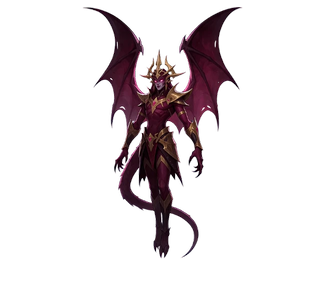
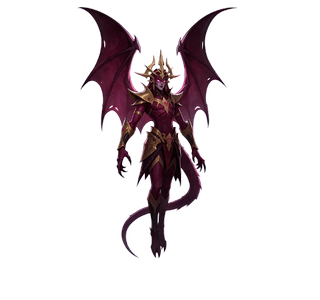
Azazel: voo espelhado (olhava para trás) e orbe de alma novo
- walk_0..5 espelhados: o rosto agora olha para onde ele anda
- Orbe (habilidade e golpe básico): surge 1-2-3, persegue no quadro 2 (sem girar),
  quadro 7 ao sumir e quadro 8 ao acertar o anjo

Changed region(s): [[0.25, 0.0, 0.75, 0.87], [0.5625, 0.84, 0.5938, 0.87], [0.4062, 0.84, 0.4375, 0.87]]

diff --git a/art_source/README.md b/art_source/README.md
@@ -14,7 +14,7 @@ Esta pasta tem `.gdignore`: o Godot NÃO importa nem exporta nada daqui (não pe
 | `baal/` (6 folhas, fundo transparente) | Baal: andar, preparar/correr a investida, pancada em área, golpe corpo a corpo (`baal_melee`, o 3º quadro não é usado), morte | Recortadas (metade da resolução, tamanho igualado entre as folhas) em `assets/bosses/baal/*.png`, todas num quadro 380x232 com os pés no mesmo ponto; animações em `BossArt.SHEETS`. O 1º quadro da morte foi espelhado (olhava para o outro lado). O avanço da folha de investida (3º quadro) não é usado |
 | `mordath/` (6 folhas, fundo transparente) | Mordath: flutuar, conjurar/lançar, invocar, morte, portal de invocação, bola de fogo | Corpo em `assets/bosses/mordath/*.png` (quadro 218x285, pés/barra da capa alinhados; animações em `BossArt.SHEETS`; o 1º quadro do andar foi espelhado, olhava para trás). Efeitos em `assets/bosses/mordath/fx/` (`BossFx`). **Sem uso:** os 3 últimos quadros do portal e os 2 últimos da invocação (pedido do usuário); o leque e a bola desenhados nos quadros de lançar foram cortados (as bolas de verdade saem da mão) |
 | `ignarr/` (7 folhas, fundo transparente) | Ignarr: andar, golpe, sopro, rugido dos meteoros, morte, efeito do sopro, meteoro | Corpo em `assets/bosses/ignarr/*.png` (quadro 588x340, patas alinhadas; andar e sopro espelhados porque olhavam para a esquerda; o fogo desenhado na boca foi cortado, o sopro é um efeito à parte). Efeitos em `assets/bosses/ignarr/fx/`. **Sem uso:** 1º e 5º quadros da folha de ataque (de frente/fora de escala) |
-| `azazel/` (8 folhas, fundo transparente) | Azazel: voo, arremesso, orbes de almas, sumir/surgir (passo sombrio), morte, efeito do orbe, portal de sombra | Corpo em `assets/bosses/azazel/*.png` (quadro 320x300; asas vizinhas e orbes soltos removidos no recorte). Efeitos em `assets/bosses/azazel/fx/`. **Sem uso:** 1º–3º quadros da folha de arremesso (o golpe usa só o arremesso), 4º quadro do orbe (voando na outra direção) |
+| `azazel/` (8 folhas, fundo transparente) | Azazel: voo, arremesso, orbes de almas, sumir/surgir (passo sombrio), morte, efeito do orbe, portal de sombra | Corpo em `assets/bosses/azazel/*.png` (quadro 320x300; asas vizinhas e orbes soltos removidos no recorte). Efeitos em `assets/bosses/azazel/fx/`. O voo foi espelhado (o rosto olhava para trás). Orbe: `azazel_orb2_fx.webp` (quadros 1,2,3,7,8 -> `fx/soul_*`); `azazel_orb_fx.webp` ficou sem uso. **Sem uso:** 1º–3º quadros da folha de arremesso, quadros 4–6 do orbe novo |
 | `angel_v2_c.webp`, `angel_v2_ultra.webp` | Mesmas poses redesenhadas (asas iguais); a `ultra` tem a fase Ultra-Power com céu/chão desenhados atrás | Guardadas. As da `ultra` com cenário não dão para recortar sem refazer o fundo |
 | `mobs_sheet.webp` | Mobs (gosma, guerreiro de escudo, espectro, golem de lava, diabinho, demônio roxo, aranha) e 4 anjos | Recortada em `assets/mobs/` (dados em `MobArt.SHEETS`). **Sem uso por enquanto:** aranha e os 4 anjos |
 | `world_props_sheet.png` | Objetos do **mundo aberto** (portal, arcos, muralhas, estandartes, ilhas flutuantes, chão de lava) | **Guardada para depois.** Atenção: o fundo xadrez está DESENHADO na imagem (não é transparência de verdade); antes de usar, precisa remover o xadrez ou pedir a folha com fundo transparente |
